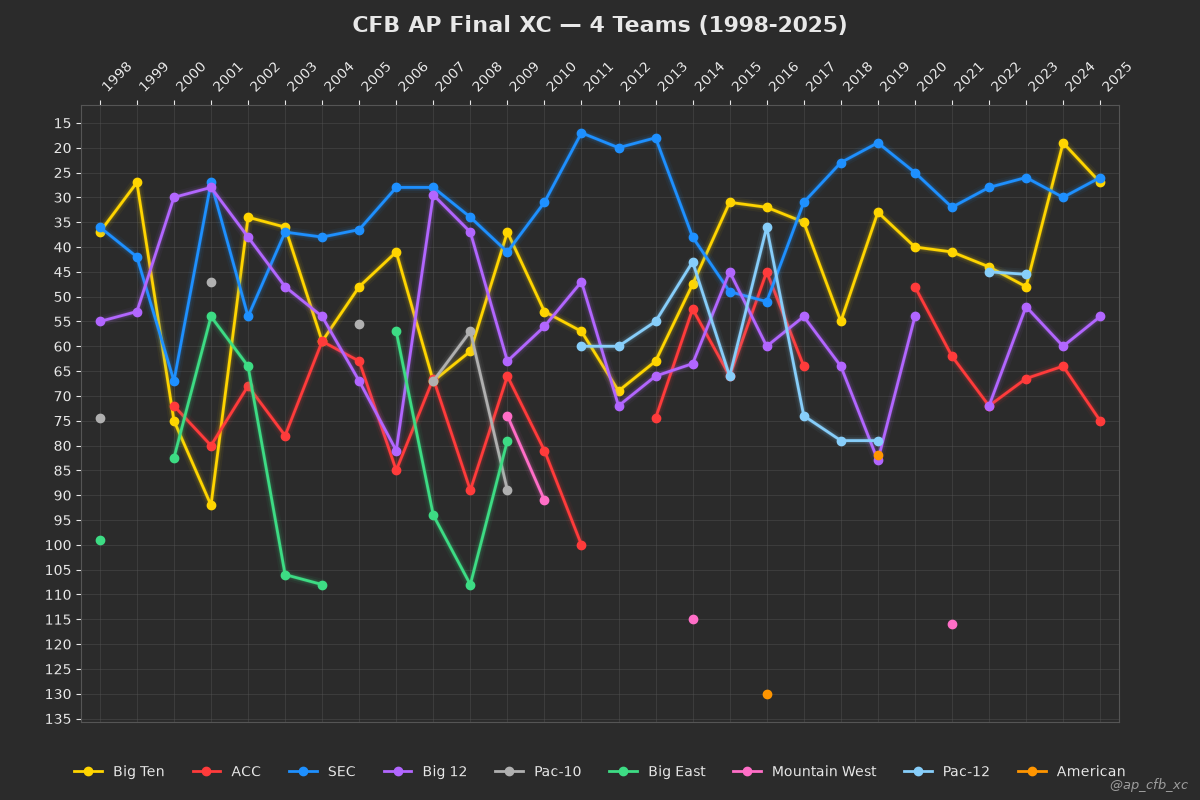
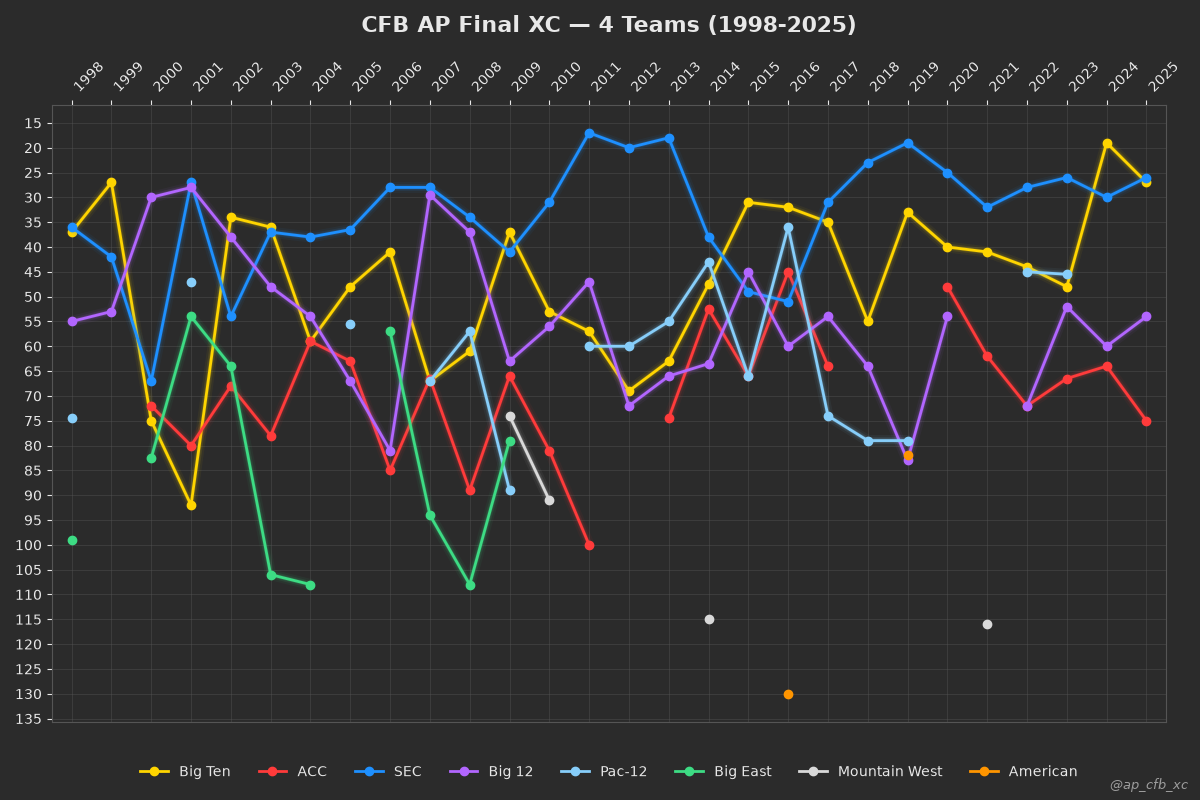
Ensure Pac-10 and Pac-12 continuity across the decades

Changed region(s): [[0.0, 0.125, 0.9558, 0.9062], [0.0617, 0.0, 0.9867, 0.125], [0.0617, 0.9375, 0.925, 0.9688]]

diff --git a/graph_data.py b/graph_data.py
@@ -14,9 +14,9 @@ https://github.com/cooperjaXC/ap-cfb-xc/issues/19
 
 # Conference shortName -> line color, matching the "halogen glow on charcoal"
 # look used in past @SECGeographer / @ap_cfb_xc posts. Conferences not listed
-# here (Mountain West, CUSA, Sun Belt, MAC, Pac-12, Patriot, FBS Indep., etc.)
-# fall back to FALLBACK_COLORS below — they rarely field enough ranked teams
-# to score, so no fixed color was ever established for them.
+# here (CUSA, Sun Belt, MAC, Patriot, FBS Indep., etc.) fall back to
+# FALLBACK_COLORS below — they rarely field enough ranked teams to score, so
+# no fixed color was ever established for them.
 CONFERENCE_COLORS = {
     "SEC": "#1E90FF",  # blue
     "Big Ten": "#FFD500",  # yellow
@@ -24,8 +24,13 @@ CONFERENCE_COLORS = {
     "Big 12": "#B266FF",  # purple
     "American": "#FF9500",  # orange (AAC) - reserved, rarely scores
     "Pac-12": "#87CEFA",  # light blue - defunct as of 2024, but present in historical seasons
+    "Mountain West": "#D9D9D9",  # light silver, brightened for dark-theme contrast - free to
+    # claim now that Pac-10 (which used to land here via fallback) is merged into Pac-12 for
+    # cross-season graphs, see _merge_pac10_into_pac12() below
+    "Big East": "#3DDC84",  # green - previously landed here via fallback cycling (Pac-10 always
+    # grabbed the grey slot ahead of it), fixed explicitly so it no longer depends on cycle order
 }
-FALLBACK_COLORS = ["#B0B0B0", "#3DDC84", "#FF6EC7", "#00E5FF", "#C0FF00"]
+FALLBACK_COLORS = ["#FF6EC7", "#00E5FF", "#C0FF00"]
 
 BACKGROUND_COLOR = "#2B2B2B"
 GRID_COLOR = "#555555"
@@ -219,6 +224,17 @@ def graph_year(year: int, num_scoring_teams: int = 5, show: bool = True) -> plt.
     return generate_graph(df, title=title, show=show, drop_empty_weeks=False, year=year)
 
 
+def _merge_pac10_into_pac12(final_row: pd.Series) -> pd.Series:
+    """Relabel a season's 'Pac-10' score as 'Pac-12' so cross-season graphs draw one continuous
+    line for the conference across its 2011 realignment (Colorado & Utah joining), rather than
+    splitting it into two disconnected series. Single-season graphs (graph_year()) call
+    generate_graph() directly and never go through here, so they keep showing 'Pac-10' for
+    seasons before the renaming - only the multi-year view treats them as the same entity."""
+    if "Pac-10" in final_row.index:
+        final_row = final_row.rename({"Pac-10": "Pac-12"})
+    return final_row
+
+
 def graph_final_rankings_by_year(
     num_scoring_teams: int = 5, show: bool = True
 ) -> plt.plot:
@@ -248,7 +264,7 @@ def graph_final_rankings_by_year(
             continue
         season_df = pd.read_csv(summary_file).set_index(idx_header)
         if "Final" in season_df.index:
-            final_rows[str(year)] = season_df.loc["Final"]
+            final_rows[str(year)] = _merge_pac10_into_pac12(season_df.loc["Final"])
 
     print(
         f"Collected Final-week rows for {len(final_rows)} of {len(years)} seasons "
